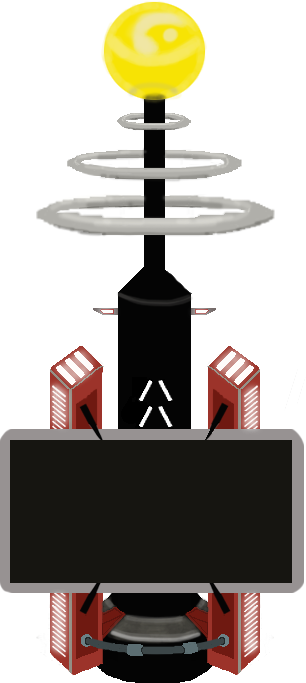
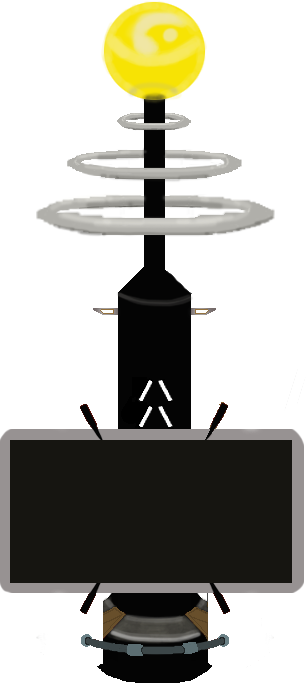
Redo LevelSelectorTesla sprite and change juciness

diff --git a/Scripts/Controls/LevelSelector.cs b/Scripts/Controls/LevelSelector.cs
@@ -21,6 +21,7 @@ namespace Com.IsartDigital.SokoVolt
         private int levelNumb = 0;
         private int levelNumbMax = 5;
         private const string LEVEL_PREFIXE = "Level : ";
+        private const string LEVEL_LABEL_PATH = "Screen/LevelLabel";
         private const float MARGIN = 350.0f;
         private Vector2 buttonSize = new Vector2(60, 100);
         private Vector2 teslaSize = new Vector2(855, 1071);
@@ -73,7 +74,6 @@ namespace Com.IsartDigital.SokoVolt
 
             for (int i = 0; i < teslaList.Count -1; i++)
             {
-                //teslaList[i].electricBolt.bolt.AddPoint(new Vector2(screenSize.X, newTeslaPointPosY));
                 if (i != 5) teslaList[i].nextTesla = teslaList[i + 1];
                 else teslaList[i].nextTesla = null;
             }
@@ -81,9 +81,6 @@ namespace Com.IsartDigital.SokoVolt
             buttonRight.Pressed += () => SwitchLevel(1);
             buttonLeft.Pressed += () => SwitchLevel(-1);
             buttonUnlockAll.Pressed += UnlockAll;
-
-            //buttonLeft.GlobalPosition = new Vector2(0 + MARGIN, screenSize.Y - 200);
-            //buttonRight.GlobalPosition = new Vector2(screenSize.X - MARGIN - buttonSize.X, screenSize.Y - 200);
         }
 
         private void UnlockAll()
@@ -140,7 +137,7 @@ namespace Com.IsartDigital.SokoVolt
                 lTesla.UnlockLevel();
             }
 
-            Label lLabel = lTesla.GetNode<Label>("Label");
+            Label lLabel = lTesla.GetNode<Label>(LEVEL_LABEL_PATH);
             lLabel.Text = LEVEL_PREFIXE + pIndex;
 
             return lTesla;

diff --git a/Scripts/GameObjects/LevelSelectorTesla.cs b/Scripts/GameObjects/LevelSelectorTesla.cs
@@ -10,10 +10,9 @@ namespace Com.IsartDigital.SokoVolt.GameObjects {
 	{
 		[Export] public LevelSelectorBolt electricBolt;
 		[Export] public Node2D electricBoltConstant;
-		[Export] public Node2D impactEffect;
 		[Export] public Padlock padLock;
 		[Export] public Button levelButton;
-		[Export] public PointLight2D lightEmission;
+		[Export] public PointLight2D[] lightEmission;
 
         public LevelSelectorTesla nextTesla;
 		public bool levelUnlocked = false;
@@ -64,7 +63,7 @@ namespace Com.IsartDigital.SokoVolt.GameObjects {
             levelButton.Disabled = false;
             electricBolt.animationPlayer.Play("start_animation");
             Tween lTween = CreateTween();
-            lTween.TweenProperty(lightEmission, "energy", 3, 0.5f);
+            foreach (PointLight2D light in lightEmission) lTween.TweenProperty(light, "energy", 3, 0.5f);
             padLock.Open();
             levelUnlocked = true;
         }
@@ -74,14 +73,9 @@ namespace Com.IsartDigital.SokoVolt.GameObjects {
             levelButton.Disabled = true;
             electricBolt.animationPlayer.Play("end_animation");
             Tween lTween = CreateTween();
-            lTween.TweenProperty(lightEmission, "energy", 0, 0.5f);
+            foreach (PointLight2D light in lightEmission) lTween.TweenProperty(light, "energy", 0, 0.5f);
             padLock.Close();
             levelUnlocked = false;
-        }
-
-        public override void _Process(double delta)
-        {
-            impactEffect.Visible = (levelUnlocked == true && level != 0) ? true : false;
         }
     }
 }

diff --git a/Scripts/GameObjects/LevelSelectorBolt.cs b/Scripts/GameObjects/LevelSelectorBolt.cs
@@ -8,8 +8,8 @@ namespace Com.IsartDigital.SokoVolt.GameObjects {
 	public partial class LevelSelectorBolt : Node2D
 	{
 		[Export] public AnimationPlayer animationPlayer;
-        [Export] public GpuParticles2D sparks;
-        [Export] public GpuParticles2D flare;
+        //[Export] public GpuParticles2D sparks;
+        //[Export] public GpuParticles2D flare;
         [Export] public Line2D bolt;
         [Export] public PointLight2D light;
         [Export] public bool animationActive = true;
@@ -17,8 +17,8 @@ namespace Com.IsartDigital.SokoVolt.GameObjects {
         public override void _Ready()
         {
             //animationPlayer.Active = animationActive;
-            sparks.Emitting = false;
-            flare.Emitting = false;
+            //sparks.Emitting = false;
+            //flare.Emitting = false;
             bolt.Hide();
             light.Energy = 0;
         }
